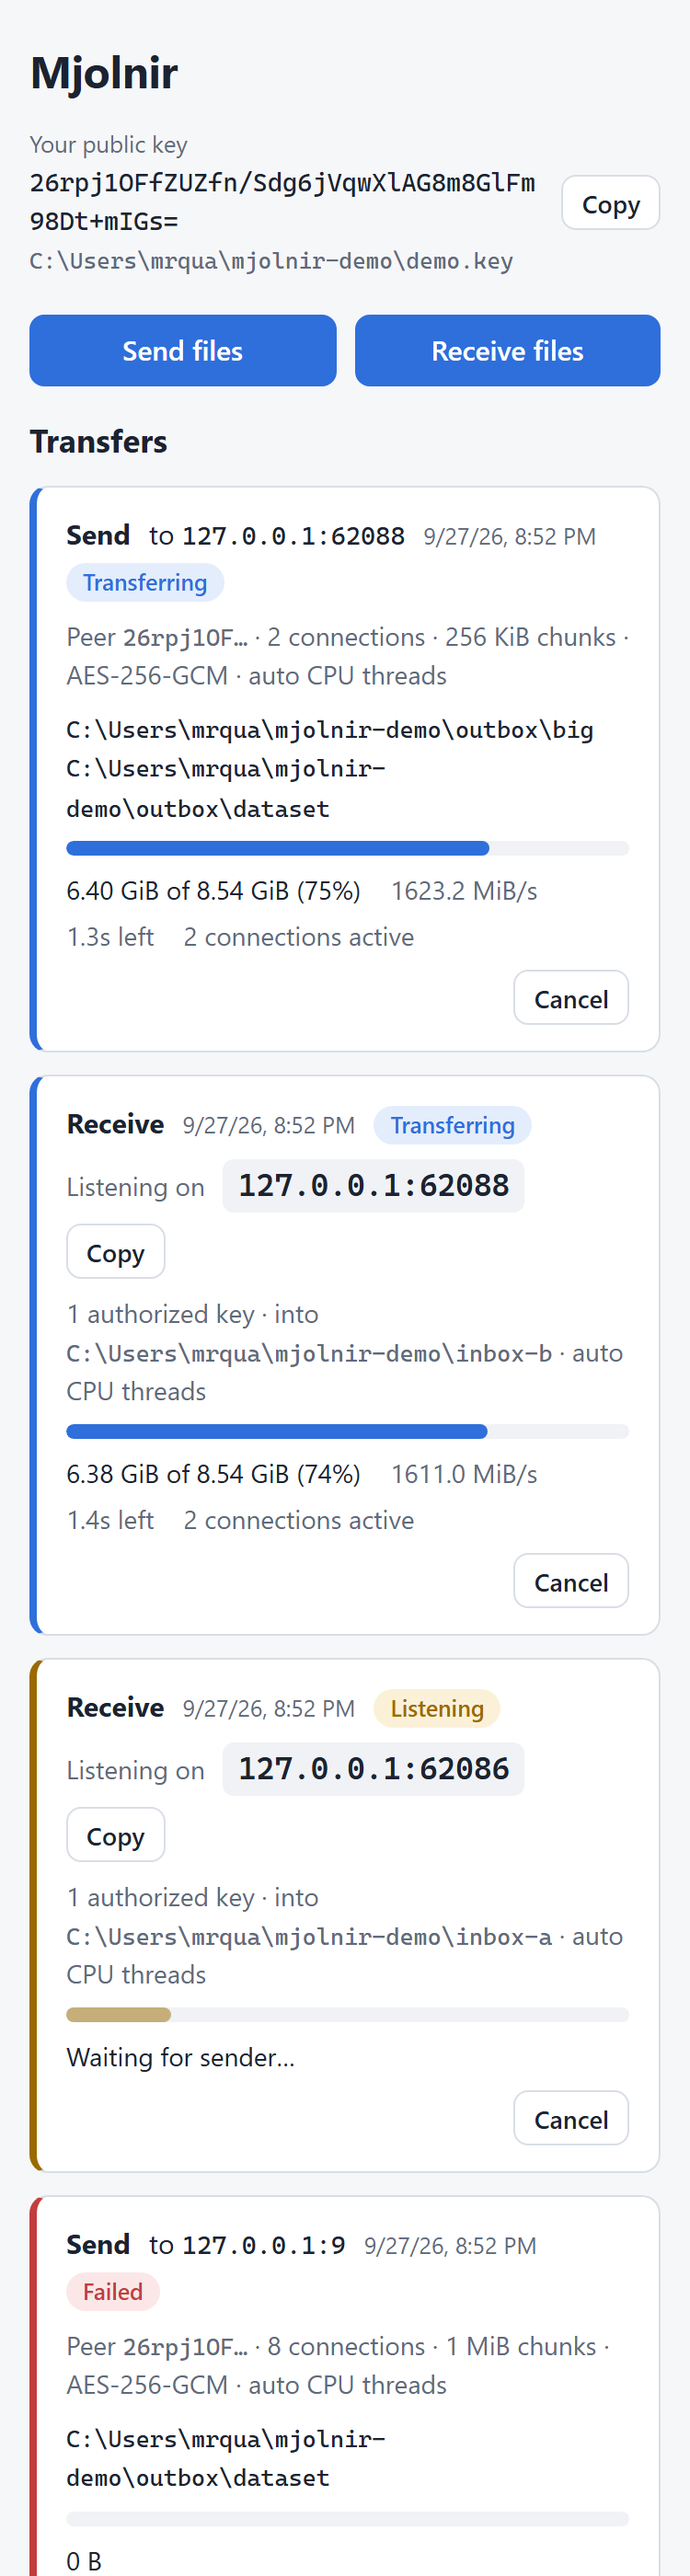
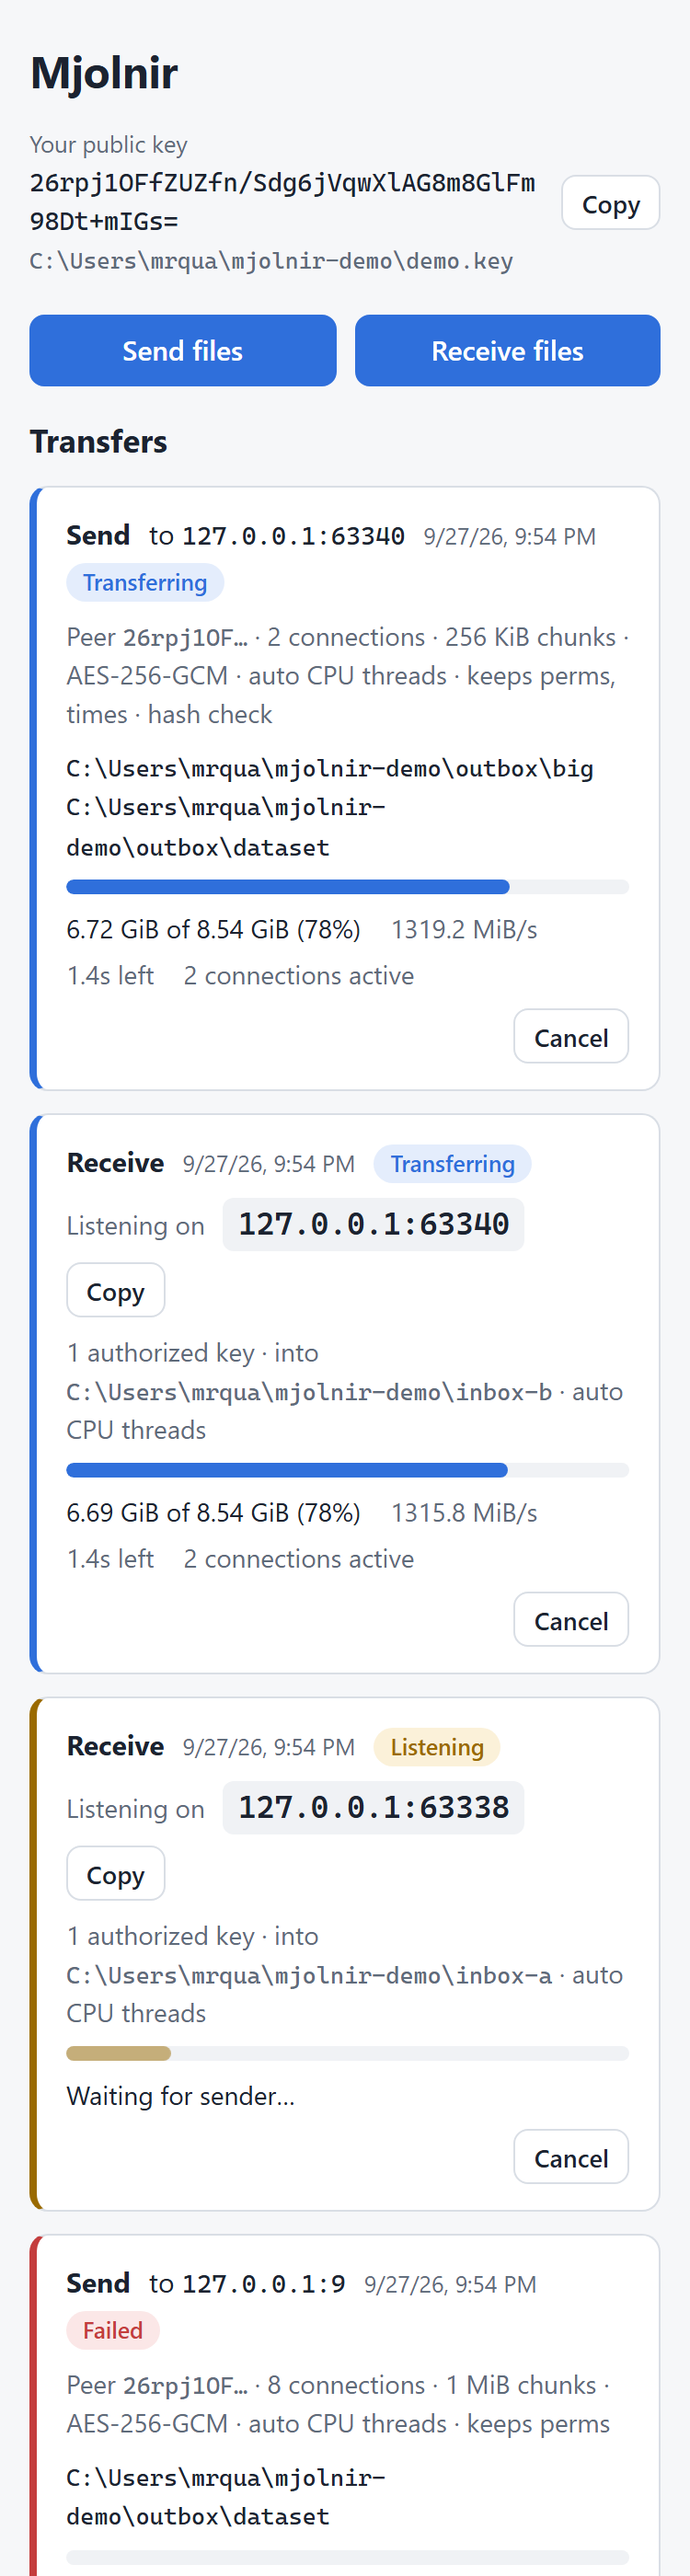
Document hash, preserve, and apply in WEB.md; retake screenshots with a hash-checked transfer

diff --git a/src/web/assets/index.html b/src/web/assets/index.html
@@ -173,6 +173,14 @@
             <p class="field-error" data-field-error="verify" hidden></p>
           </div>
 
+          <div class="field">
+            <label class="check">
+              <input id="receive-force" name="force" type="checkbox">
+              <span>Overwrite existing files</span>
+            </label>
+            <p class="field-error" data-field-error="force" hidden></p>
+          </div>
+
           <details class="advanced">
             <summary>Advanced</summary>
             <div class="field">
@@ -188,14 +196,6 @@
               <p class="field-error" data-field-error="apply" hidden></p>
             </div>
           </details>
-
-          <div class="field">
-            <label class="check">
-              <input id="receive-force" name="force" type="checkbox">
-              <span>Overwrite existing files</span>
-            </label>
-            <p class="field-error" data-field-error="force" hidden></p>
-          </div>
 
           <div class="form-actions">
             <button type="submit" class="button primary">Start receiver</button>

diff --git a/docs/WEB.md b/docs/WEB.md
@@ -34,8 +34,11 @@ line as `key [label]`. Tick "Overwrite existing files" to replace files that
 already exist in the output folder. "Verify after transfer" (on by default)
 reads every chunk back from disk before finishing and fetches again any that
 do not match. "CPU threads" sets how many workers open chunks; leave it
-empty for one per core. The receiver binds immediately, so a
-port that is already in use is reported on the form. Its card shows the bound
+empty for one per core. Under "Advanced", "Allow setuid/setgid bits" and
+"Apply ownership (root only)" let the sender's file map set those; both are
+off, so by default a sender cannot plant privileged files or choose their
+owner. The receiver binds immediately, so a port that is already in use is
+reported on the form. Its card shows the bound
 address with a Copy button, to paste into the sender's form. Each receiver
 takes one complete transfer, then finishes; a sender that fails the
 handshake or drops mid-session does not end it, and it goes back to waiting.
@@ -44,17 +47,27 @@ Several receivers can wait on different ports at once.
 **Send files.** Enter the receiver's address and public key, add files and
 folders with the file browser, and optionally tune the number of connections
 (1 to 64, default 8), the chunk size, the cipher, and the CPU threads that
-seal chunks (empty means one per core). Recent peers are remembered in the
-browser.
+seal chunks (empty means one per core). "Verify with hash after delivery"
+re-reads every file on this side once it is delivered; the receiver compares
+the chunk digests and fetches any mismatch again. "Preserve" chooses what
+the file map carries: permissions (on by default), modification times, and
+owner. Recent peers are remembered in the browser.
+
+![The send form](web-ui/send-form.png)
 
 ![The file browser: folders navigate, checkboxes select files and folders](web-ui/picker.png)
+
+![The receive form with Advanced open](web-ui/receive-form.png)
 
 Each transfer card shows its phase, a progress bar, bytes done and total,
 throughput and ETA (computed in the browser from successive polls), and the
 number of active connections. Running transfers have a Cancel button;
 finished ones have Remove. Failed transfers show the error. Finished ones show
 a summary: files, bytes, time, average speed, whether every chunk was
-verified, and any repaired, duplicate, or resent chunks.
+verified and hash checked, and any repaired, hash-repaired, duplicate, or
+resent chunks. Warnings (metadata the receiver could not apply) and skipped
+files (symbolic links and special files the sender left out) are listed when
+there are any, and the per-file hashes sit in a collapsible section.
 
 ![Finished transfers with their summaries](web-ui/done.png)
 
@@ -140,7 +153,9 @@ have the shape `{ "error": "message", "field": "name" | null }`, where
     "connections": 8,
     "chunk_size": 1048576,
     "cipher": "Aes256Gcm",
-    "threads": 0
+    "threads": 0,
+    "hash": true,
+    "preserve": { "perms": true, "times": false, "owner": false }
   },
   "created_at_ms": 1790000000000,
   "state": "running",
@@ -160,15 +175,28 @@ have the shape `{ "error": "message", "field": "name" | null }`, where
 ```
 
 - `kind` is `send` or `receive`. A receive `spec` is
-  `{ "listen", "authorized": [keys], "out_dir", "force", "verify", "threads" }`.
+  `{ "listen", "authorized": [keys], "out_dir", "force", "verify", "threads", "apply": { "allow_special_bits", "allow_owner" } }`.
 - `state` is `running`, `done`, `failed`, or `cancelled`. `error` is set
   when failed, `report` when done:
-  `{ "files", "bytes", "elapsed_ms", "verified", "chunks_resent", "repaired_chunks", "duplicate_chunks" }`.
-  Counts that do not apply to a side are 0.
+
+  ```json
+  {
+    "files": 9, "bytes": 9170000000, "elapsed_ms": 10400,
+    "verified": true, "hashed": true,
+    "chunks_resent": 0, "repaired_chunks": 0, "hash_repaired_chunks": 0, "duplicate_chunks": 0,
+    "file_hashes": [{ "path": "dataset/model.ckpt", "hash": "295b43bf..." }],
+    "warnings": [], "skipped": []
+  }
+  ```
+
+  Counts that do not apply to a side are 0. The receiver always lists file
+  hashes; the sender lists them only when `hash` was on. `skipped` is filled
+  on the sender, `warnings` mostly on the receiver.
 - `bound_addr` is the receiver's actual listening address, `null` for sends.
 - `progress.phase` is `connecting`, `handshaking`, `transferring`,
-  `verifying`, `finishing`, `done`, or `failed`. `bytes_total` is 0 until the
-  manifest is known. While verifying, `bytes_done` counts bytes read back.
+  `verifying`, `hashing`, `finishing`, `done`, or `failed`. `bytes_total` is 0
+  until the manifest is known. While verifying or hashing, `bytes_done` counts
+  bytes read back.
 - `elapsed_ms` counts from creation to now, or to the end once finished.
 
 ### `POST /api/send`
@@ -181,13 +209,16 @@ have the shape `{ "error": "message", "field": "name" | null }`, where
   "connections": 8,
   "chunk_size": 1048576,
   "cipher": "Aes256Gcm",
-  "threads": 0
+  "threads": 0,
+  "hash": false,
+  "preserve": { "perms": true, "times": false, "owner": false }
 }
 ```
 
 `connections` (1 to 64), `chunk_size` (4 KiB to 64 MiB), `cipher`
-(`Aes256Gcm` or `ChaCha20Poly1305`), and `threads` (0 to 256, 0 meaning one
-per core) are optional with the defaults shown.
+(`Aes256Gcm` or `ChaCha20Poly1305`), `threads` (0 to 256, 0 meaning one
+per core), `hash`, and `preserve` are optional with the defaults shown.
+`preserve` must name all three flags when given.
 `addr` may be a host name; it is resolved when the transfer starts. Every
 path must exist. Returns the new Transfer.
 
@@ -200,12 +231,13 @@ path must exist. Returns the new Transfer.
   "out_dir": "/incoming",
   "force": false,
   "verify": true,
-  "threads": 0
+  "threads": 0,
+  "apply": { "allow_special_bits": false, "allow_owner": false }
 }
 ```
 
-`listen` is an `ip:port`; port 0 picks a free one. `force`, `verify`, and
-`threads` are optional with the defaults shown. At least one authorized
+`listen` is an `ip:port`; port 0 picks a free one. `force`, `verify`,
+`threads`, and `apply` are optional with the defaults shown. At least one authorized
 key is required, and `out_dir` must be an existing folder. The listener binds
 before the response is sent, so a busy port is a 400 on `listen`, and the
 returned Transfer carries `bound_addr`.
